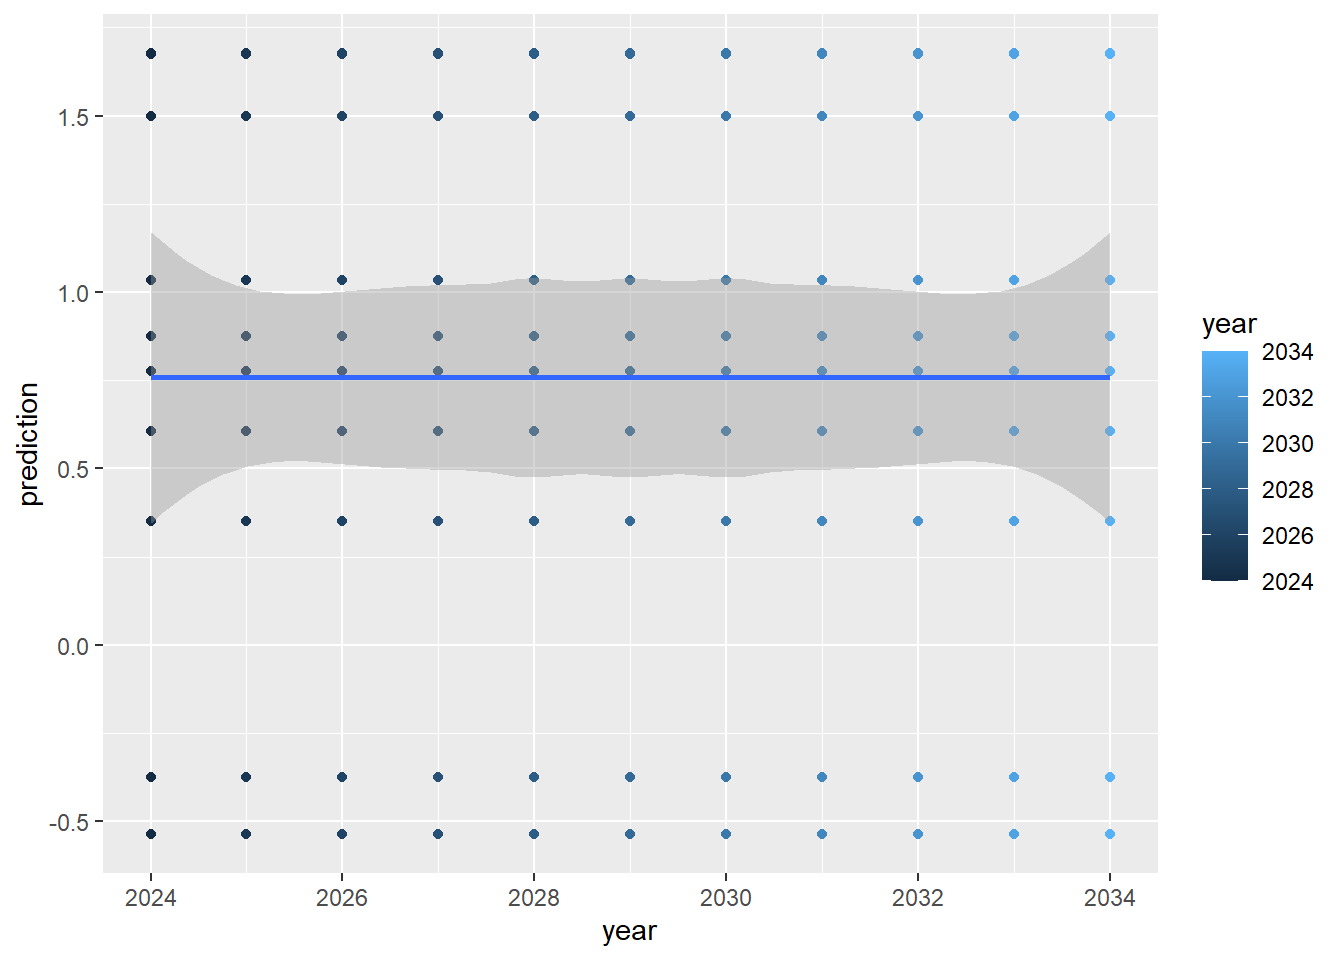
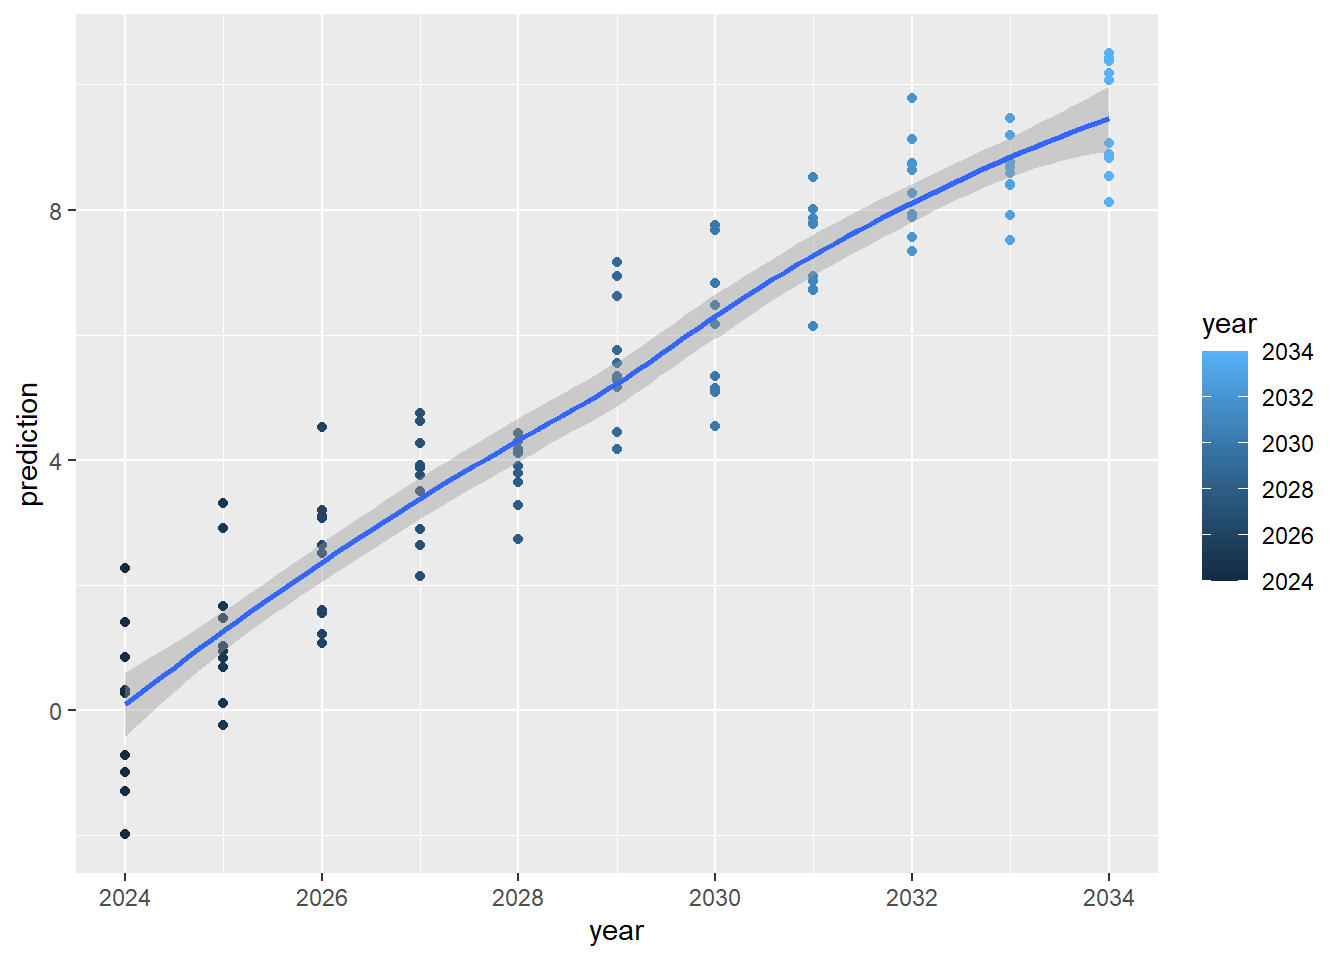
scheduling bugfix x not y

diff --git a/docs/training/_book/Scheduling.html b/docs/training/_book/Scheduling.html
@@ -7,7 +7,7 @@
 <meta name="viewport" content="width=device-width, initial-scale=1.0, user-scalable=yes">
 
 <meta name="author" content="Eliot McIntire">
-<meta name="dcterms.date" content="2024-07-05">
+<meta name="dcterms.date" content="2024-11-20">
 
 <title>Robust and nimble scientific workflows, using SpaDES - 9&nbsp; Scheduling Events</title>
 <style>
@@ -446,7 +446,7 @@ pre > code.sourceCode > span > a:first-child::before { text-decoration: underlin
     <div>
     <div class="quarto-title-meta-heading">Published</div>
     <div class="quarto-title-meta-contents">
-      <p class="date">July 5, 2024</p>
+      <p class="date">November 20, 2024</p>
     </div>
   </div>
   
@@ -504,7 +504,7 @@ Repeated? When?
 <span id="cb1-11"><a href="#cb1-11" aria-hidden="true" tabindex="-1"></a>startYear <span class="ot">&lt;-</span> <span class="dv">2023</span></span>
 <span id="cb1-12"><a href="#cb1-12" aria-hidden="true" tabindex="-1"></a>years <span class="ot">&lt;-</span> startYear<span class="sc">:</span>(startYear <span class="sc">+</span> <span class="dv">10</span>) <span class="sc">+</span> <span class="dv">1</span></span>
 <span id="cb1-13"><a href="#cb1-13" aria-hidden="true" tabindex="-1"></a><span class="cf">for</span> (year <span class="cf">in</span> years <span class="sc">-</span> startYear) {</span>
-<span id="cb1-14"><a href="#cb1-14" aria-hidden="true" tabindex="-1"></a>  pred[[year]] <span class="ot">&lt;-</span> <span class="fu">predict</span>(out, <span class="at">newdata =</span> <span class="fu">data.frame</span>(<span class="at">y =</span> <span class="fu">rnorm</span>(<span class="dv">10</span>) <span class="sc">+</span> year))</span>
+<span id="cb1-14"><a href="#cb1-14" aria-hidden="true" tabindex="-1"></a>  pred[[year]] <span class="ot">&lt;-</span> <span class="fu">predict</span>(out, <span class="at">newdata =</span> <span class="fu">data.frame</span>(<span class="at">x =</span> <span class="fu">rnorm</span>(<span class="dv">10</span>) <span class="sc">+</span> year))</span>
 <span id="cb1-15"><a href="#cb1-15" aria-hidden="true" tabindex="-1"></a>}</span>
 <span id="cb1-16"><a href="#cb1-16" aria-hidden="true" tabindex="-1"></a></span>
 <span id="cb1-17"><a href="#cb1-17" aria-hidden="true" tabindex="-1"></a><span class="co"># Plot #####</span></span>
@@ -891,7 +891,7 @@ scheduleEvent(sim, time(sim) + P(sim)$predFreq, "predictions")
 <span id="cb16-11"><a href="#cb16-11" aria-hidden="true" tabindex="-1"></a>startYear <span class="ot">&lt;-</span> <span class="dv">2023</span></span>
 <span id="cb16-12"><a href="#cb16-12" aria-hidden="true" tabindex="-1"></a>years <span class="ot">&lt;-</span> startYear<span class="sc">:</span>(startYear <span class="sc">+</span> <span class="dv">10</span>) <span class="sc">+</span> <span class="dv">1</span></span>
 <span id="cb16-13"><a href="#cb16-13" aria-hidden="true" tabindex="-1"></a><span class="cf">for</span> (year <span class="cf">in</span> years <span class="sc">-</span> startYear) {</span>
-<span id="cb16-14"><a href="#cb16-14" aria-hidden="true" tabindex="-1"></a>  pred[[year]] <span class="ot">&lt;-</span> <span class="fu">predict</span>(out, <span class="at">newdata =</span> <span class="fu">data.frame</span>(<span class="at">y =</span> <span class="fu">rnorm</span>(<span class="dv">10</span>) <span class="sc">+</span> year))</span>
+<span id="cb16-14"><a href="#cb16-14" aria-hidden="true" tabindex="-1"></a>  pred[[year]] <span class="ot">&lt;-</span> <span class="fu">predict</span>(out, <span class="at">newdata =</span> <span class="fu">data.frame</span>(<span class="at">x =</span> <span class="fu">rnorm</span>(<span class="dv">10</span>) <span class="sc">+</span> year))</span>
 <span id="cb16-15"><a href="#cb16-15" aria-hidden="true" tabindex="-1"></a>}</span>
 <span id="cb16-16"><a href="#cb16-16" aria-hidden="true" tabindex="-1"></a></span>
 <span id="cb16-17"><a href="#cb16-17" aria-hidden="true" tabindex="-1"></a><span class="co"># Plot #####</span></span>

diff --git a/docs/training/_book/index.html b/docs/training/_book/index.html
@@ -8,7 +8,7 @@
 
 <meta name="author" content="Eliot McIntire">
 <meta name="author" content="Ceres Barros">
-<meta name="dcterms.date" content="2024-11-15">
+<meta name="dcterms.date" content="2024-11-20">
 
 <title>Robust and nimble scientific workflows, using SpaDES</title>
 <style>
@@ -418,7 +418,7 @@ div.csl-indent {
     <div>
     <div class="quarto-title-meta-heading">Published</div>
     <div class="quarto-title-meta-contents">
-      <p class="date">November 15, 2024</p>
+      <p class="date">November 20, 2024</p>
     </div>
   </div>
   
